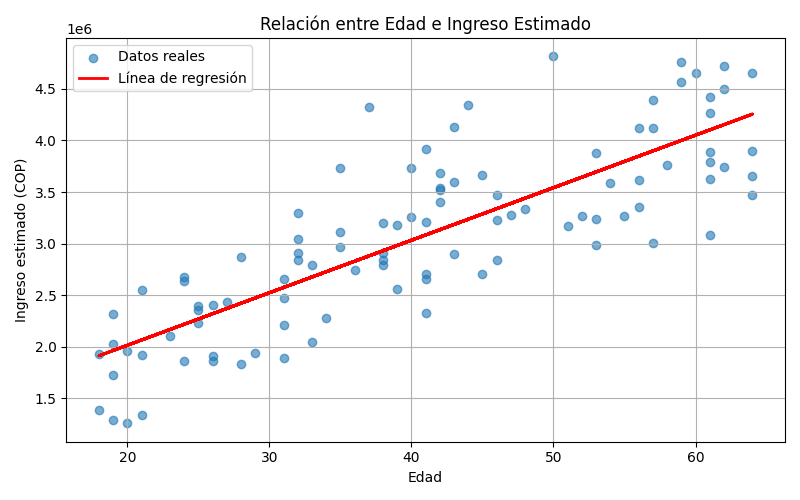
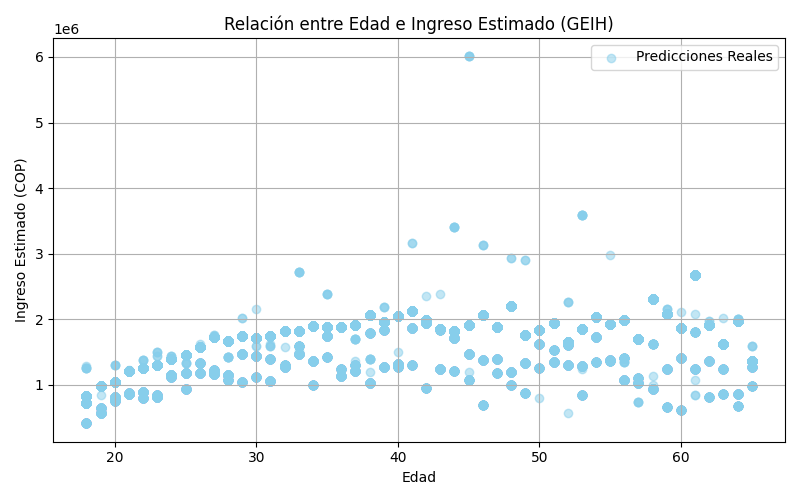
COMMIT

diff --git a/app.py b/app.py
@@ -13,29 +13,62 @@ app = Flask(__name__)
 model = pickle.load(open('model/income_model.pkl', 'rb'))
 
 def generar_grafica_dispersion():
-    # Simular datos de ejemplo (puedes reemplazar con datos reales)
-    np.random.seed(42)
-    edad = np.random.randint(18, 65, 100)
-    ingresos = 1000000 + edad * 50000 + np.random.normal(0, 500000, 100)
+    import pandas as pd
+    import matplotlib.pyplot as plt
+    import pickle
+    import numpy as np
+    import os
 
-    X = edad.reshape(-1, 1)
-    y = ingresos
+    # Cargar el modelo entrenado
+    model_path = 'model/income_model.pkl'
+    if not os.path.exists(model_path):
+        print("⚠ Modelo no encontrado en la ruta especificada.")
+        return
 
-    modelo = LinearRegression()
-    modelo.fit(X, y)
-    predicciones = modelo.predict(X)
+    model = pickle.load(open(model_path, 'rb'))
 
+    # Cargar datos reales desde Características Generales
+    caracteristicas_path = 'model/CSV/Características generales, seguridad social en salud y educación.CSV'
+    if not os.path.exists(caracteristicas_path):
+        print("⚠ Dataset no encontrado en la ruta especificada.")
+        return
+
+    caracteristicas = pd.read_csv(caracteristicas_path, sep=';', encoding='latin1')
+
+    # Verificar existencia de columnas necesarias
+    if not all(col in caracteristicas.columns for col in ['P6040', 'P6080']):
+        print("⚠ Las columnas P6040 (Edad) y P6080 (Nivel Educativo) no están en el dataset.")
+        return
+
+    # Preparar los datos
+    df = caracteristicas[['P6040', 'P6080']].dropna()
+    df = df[(df['P6040'] >= 18) & (df['P6040'] <= 65)]  # Filtrar edades entre 18 y 65
+
+    if df.empty:
+        print("⚠ No hay suficientes datos para generar la gráfica de dispersión.")
+        return
+
+    # Agregar columnas faltantes requeridas por el modelo
+    df['hours_per_week'] = 40  # Asumiendo promedio de 40 horas semanales
+
+    # Preparar entrada para el modelo
+    X = df[['P6040', 'P6080', 'hours_per_week']]
+    X.columns = ['age', 'education_num', 'hours_per_week']
+
+    # Generar predicciones
+    ingresos_predichos = model.predict(X)
+
+    # Crear la gráfica de dispersión
     plt.figure(figsize=(8, 5))
-    plt.scatter(edad, ingresos, label="Datos reales", alpha=0.6)
-    plt.plot(edad, predicciones, color="red", label="Línea de regresión", linewidth=2)
+    plt.scatter(df['P6040'], ingresos_predichos, alpha=0.5, color='skyblue', label="Predicciones Reales")
     plt.xlabel("Edad")
-    plt.ylabel("Ingreso estimado (COP)")
-    plt.title("Relación entre Edad e Ingreso Estimado")
-    plt.legend()
+    plt.ylabel("Ingreso Estimado (COP)")
+    plt.title("Relación entre Edad e Ingreso Estimado (GEIH)")
     plt.grid(True)
+    plt.legend()
     plt.tight_layout()
 
-    # Guardar la gráfica en static
+    # Guardar la gráfica en la carpeta static
     plt.savefig('static/grafica_dispersion.png')
     plt.close()
 
@@ -49,13 +82,12 @@ def index():
             return render_template('index.html', prediction=None)
         education_num = int(education_input)
         hours = int(request.form['hours'])
-        sex = 1 if request.form['sex'] == 'Male' else 0
 
-        features = pd.DataFrame([[age, education_num, hours, sex]], columns=['age', 'education_num', 'hours_per_week', 'sex'])
+        features = pd.DataFrame([[age, education_num, hours]], columns=['age', 'education_num', 'hours_per_week'])
         prediction = model.predict(features)[0]
 
         # Gráfica comparativa
-        average_income = 20_000_000  # Promedio nacional anual (ajustable)
+        average_income = 25_000_000  # Promedio anual 
         categories = ['Promedio Nacional', 'Tu Predicción']
         values = [average_income, prediction]
 
@@ -73,7 +105,7 @@ def index():
         plt.savefig('static/prediction_plot.png')
         plt.close()
 
-        # Nueva gráfica: Distribución de Ingresos por Nivel Educativo
+        # Gráfica de Ingresos por Nivel Educativo
         education_levels = ['Bachillerato', 'Pregrado', 'Especialización', 'Maestría', 'Doctorado']
         incomes = [18_000_000, 36_000_000, 60_000_000, 84_000_000, 120_000_000]
 
@@ -90,7 +122,7 @@ def index():
         plt.savefig('static/education_plot.png')
         plt.close()
 
-        # Generar la nueva gráfica de dispersión
+        #Gráfica de dispersión
         generar_grafica_dispersion()
 
     return render_template('index.html', prediction=prediction)
